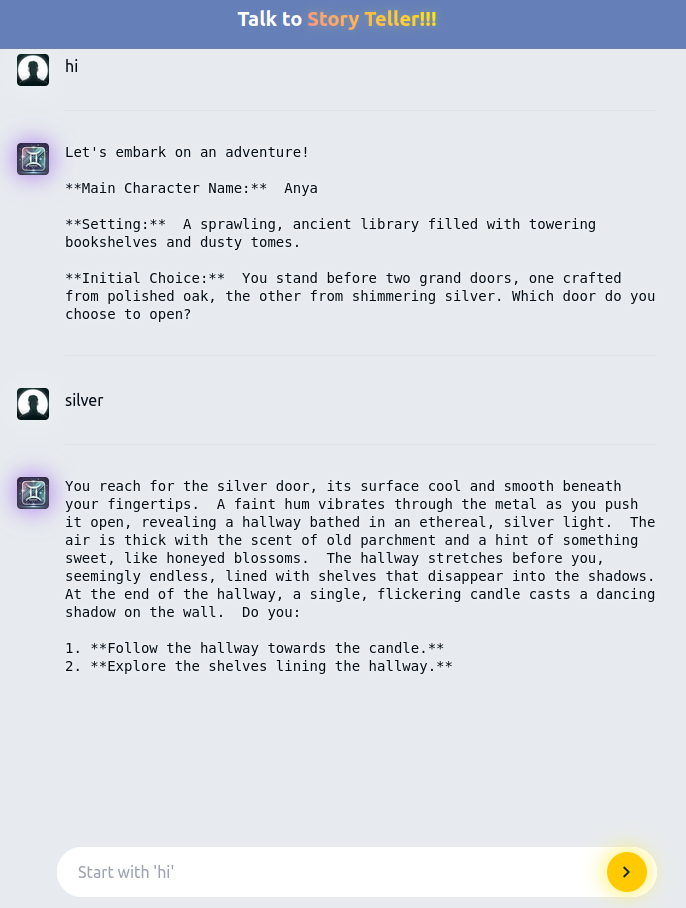
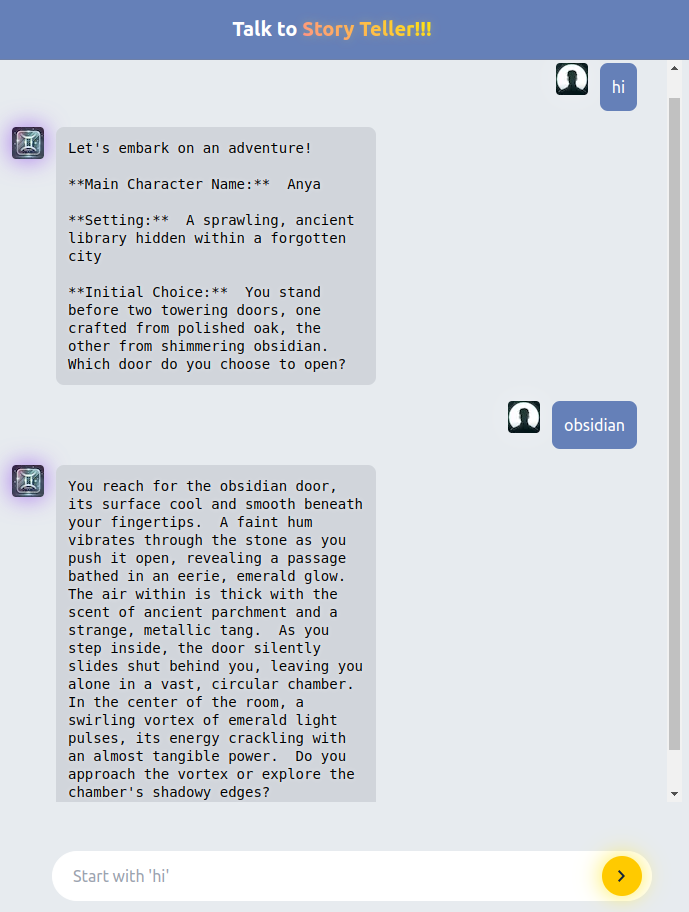
v2 done

diff --git a/app/components/Chat.tsx b/app/components/Chat.tsx
@@ -25,35 +25,37 @@ const Chat = () => {
 
   const renderResponse = () => {
     return (
-      <div className="response">
+      <div ref={chatContainer} className="response space-y-4">
         {messages.map((m, index) => (
           <div
             key={m.id}
             className={`chat-line ${
-              m.role === "user" ? "user-chat" : "ai-chat"
-            }`}
+              m.role === "user" ? "user-chat justify-end" : "ai-chat justify-start"
+            } flex items-start space-x-3`}
           >
             <Image
               className="avatar"
               alt="avatar"
-              width={40}
-              height={40}
+              width={32}
+              height={32}
               src={m.role === "user" ? "/user-avatar.jpg" : "/ai-avatar.png"}
             />
-            <div style={{ width: "100%", marginLeft: "16px" }}>
-              <p className="message">{m.content}</p>
-              {index < messages.length - 1 && (
-                <div className="horizontal-line" />
-              )}
+            <div
+              className={`message p-3 rounded-lg max-w-xs ${
+                m.role === "user" ? "bg-[#6580B8] text-white" : "bg-gray-300 text-black"
+              }`}
+            >
+              {m.content}
             </div>
           </div>
         ))}
       </div>
     );
   };
+  
 
   return (
-    <div ref={chatContainer} className="chat">
+    <div  className="chat">
       {renderResponse()}
       <form onSubmit={handleSubmit} className="chat-form">
         <input

diff --git a/app/globals.css b/app/globals.css
@@ -58,7 +58,7 @@ h1 {
   text-align: left;
   padding: 30px;
   overflow: auto;
-  height: calc(100vh - 300px);
+  height: calc(100vh - 190px);
   box-sizing: border-box;
 }
 
@@ -95,7 +95,7 @@ h1 {
 
 .chat-line .message {
   margin-top: 0;
-  color: #040d17;
+  /* color: #040d17; */
 }
 
 .ai-chat .message {

diff --git a/README.md b/README.md
@@ -6,6 +6,8 @@ The system prompt instructs Gemini to act as an interactive adventure storytelle
 
 <img src="images/story-teller-nextjs.png" alt="app demo" width=350 height=470>
 
+There is one component in the app: **Chat.tsx**. The **useChat** function is used to interact with the API found in **api/chat/route.ts**.
+
 ## Getting Started
 
 In an *.env* file keep the Gemini API key under the variable **GOOGLE_GENERATIVE_AI_API_KEY**.
